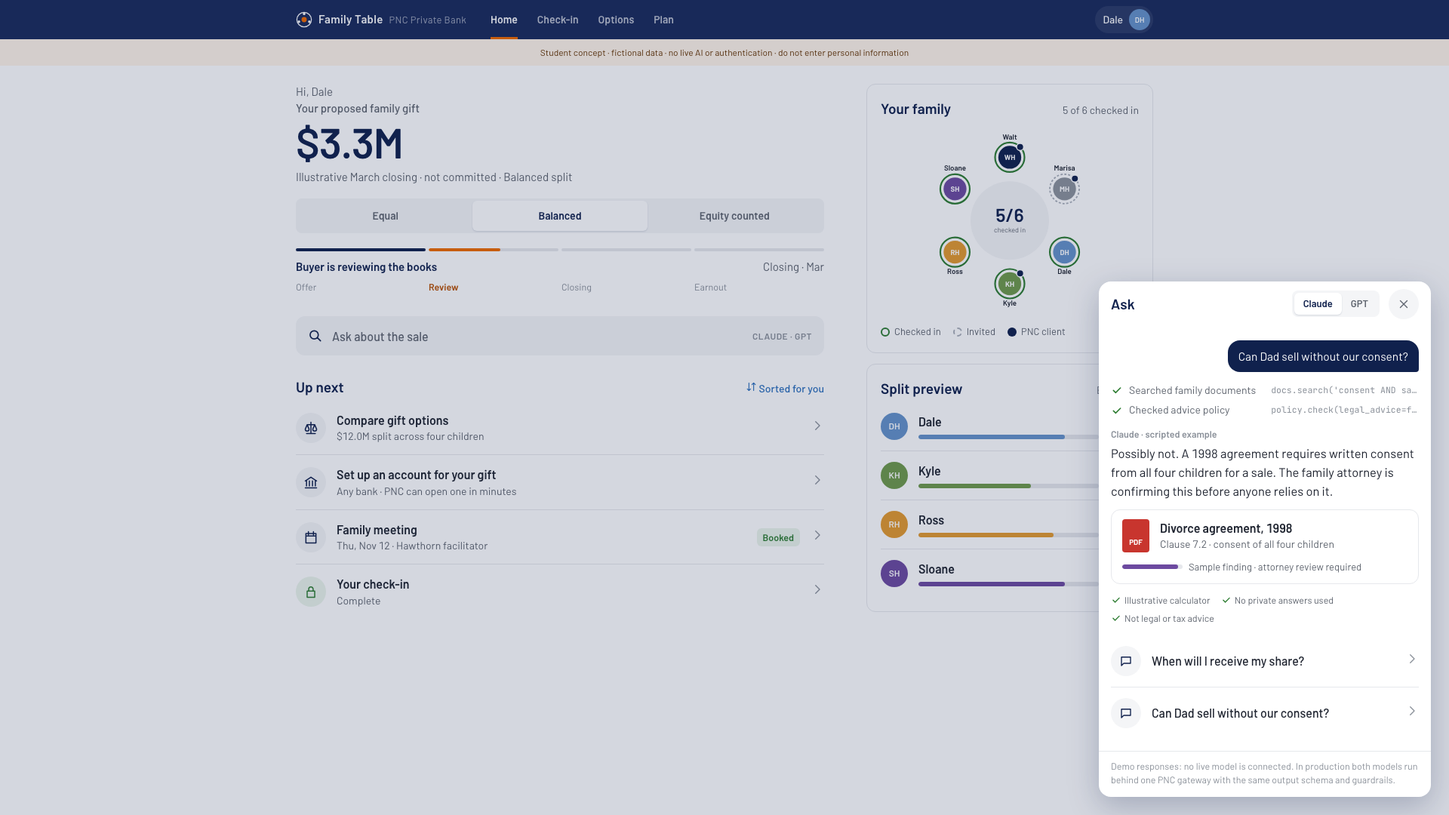
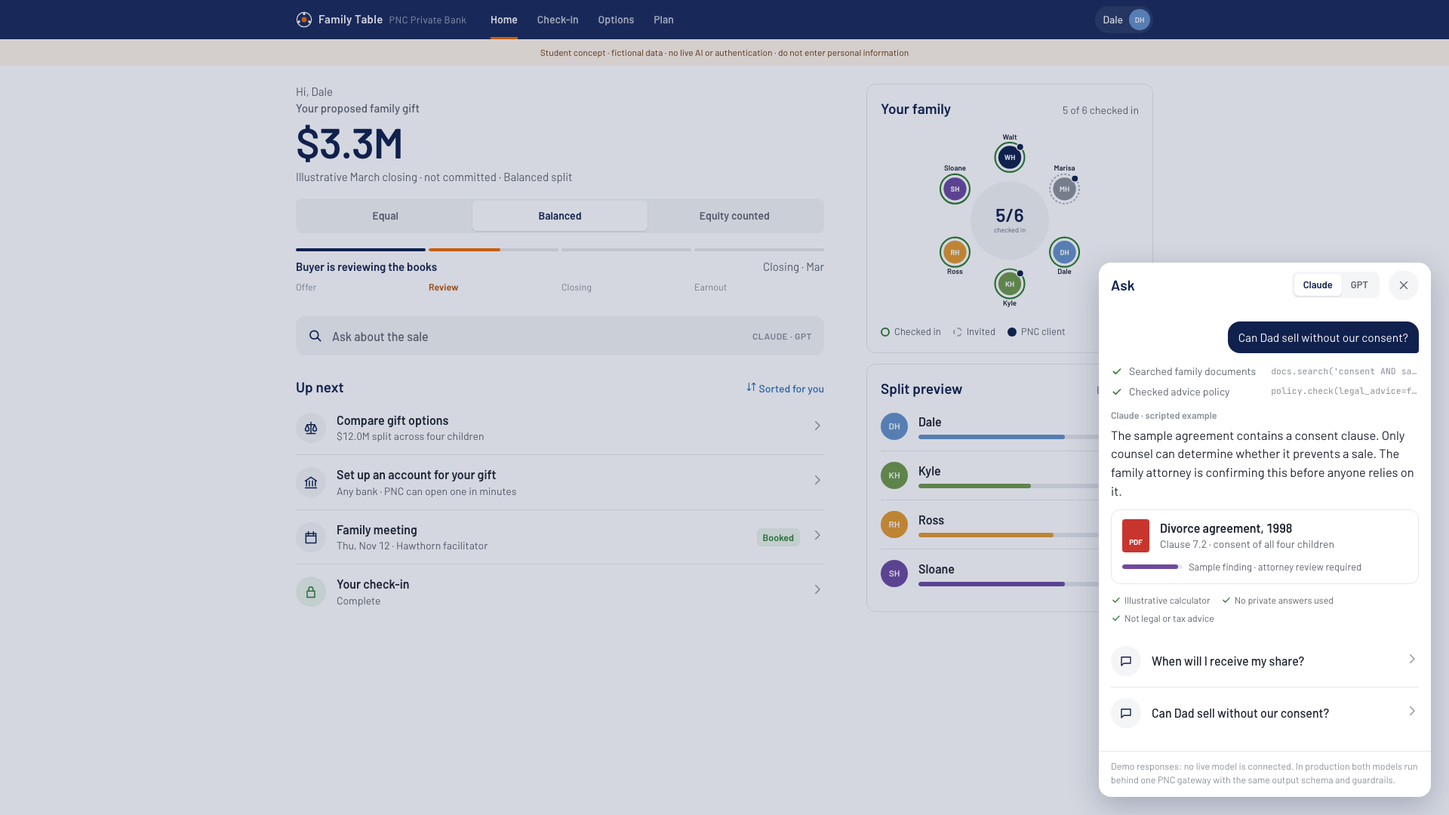
Clarify buyer authority and record verified revision handoff

Changed region(s): [[0.75, 0.3056, 1.0, 0.6111]]

diff --git a/slides/index.html b/slides/index.html
@@ -1,1 +1,1 @@
-<!doctype html><html lang="en"><meta charset="utf-8"><meta name="viewport" content="width=device-width,initial-scale=1"><title>Family Table · ten-slide review deck</title><link rel="stylesheet" href="deck.css"><body><nav class="toolbar"><a href="../">Overview</a><a href="../prototype/?reset#/me/sloane/checkin">Live demo</a><a href="family-table-review.pdf">Download PDF</a><span>Team review draft · AI-assisted revision</span></nav><section class="slide" id="cover"><div class="kicker">Family Table</div><h1>One sale. Every voice. A clear next step.</h1><div class="columns"><div><h2>A $48M offer</h2><p>Six family members have different ideas of what comes next.</p></div><div><h2>The product</h2><p>A family workspace and advisor workbench for a business sale.</p></div><div><h2>The team</h2><p>Alen Ilmi · Rizaldy Utomo · Nindy Aditya Dewi · Aditya Mulya Pratama</p></div></div><div class="source">CSL 2026 · Carnegie Mellon University · Student concept, not a PNC product.</div><span class="num">01 / 10</span></section><section class="slide" id="case"><div class="kicker">The problem and our evidence</div><h1>A sale requires a plan for the family’s life afterward.</h1><div class="columns"><div><h2>Secondary evidence</h2><p>PNC’s Begin at the end describes lifestyle, purpose and family planning after an exit.</p></div><div><h2>Our hypothesis</h2><p>Separate conversations and explicit sharing help members raise concerns before a joint decision.</p></div><div><h2>Evidence gap</h2><p>No primary interviews are documented. Fictional personas and Succession are design prompts, not customer evidence.</p></div></div><div class="source">Source: PNC, Begin at the end, pp. 1–3. Primary discovery remains incomplete.</div><span class="num">02 / 10</span></section><section class="slide" id="discovery"><div class="kicker">Discovery before claims</div><h1>Test who people trust with an answer.</h1><div class="columns"><div><h2>Two owners or heirs</h2><p>Ask about the last difficult financial conversation. Who could see the answer? Show sharing controls; ask them to explain the recipient.</p></div><div><h2>Two advisors</h2><p>Reconstruct their last sale handoff. Time meeting preparation. Ask about representation, conflicts and a manual alternative.</p></div><div><h2>Decision rule</h2><p>Record quote, consent to cite, friction and resulting change. If sharing is misunderstood, simplify it. If members refuse the bank, offer separate counsel.</p></div></div><div class="source">Proposed interviews, not completed research. Never fill this slide with invented quotes.</div><span class="num">03 / 10</span></section><section class="slide" id="family"><div class="kicker">The family experience</div><h1>Sloane decides what Alex receives.</h1><div class="demo-layout"><img src="../prototype/shots/me_sloane_checkin.png" alt="Current family prototype screen"><div class="columns"><div><h2>Write privately</h2><p>No answer or inferred theme appears in Alex’s view by default.</p></div><div><h2>Share deliberately</h2><p>Choose one answer for Alex. Preview exactly what he sees. A private conversation remains an alternative.</p></div><div><h2>Change your mind</h2><p>Withdraw future access. Editing requires sharing again. Prior reading and required audit retention cannot be undone.</p></div></div></div><div class="source">Interactive demo: prototype/#/me/sloane/checkin. Static fictional data; no secure storage.</div><span class="num">04 / 10</span></section><section class="slide" id="advisor"><div class="kicker">The advisor workbench</div><h1>Alex prepares from permission, not inference.</h1><div class="demo-layout"><img src="../prototype/shots/advisor_align.png" alt="Current advisor prototype screen"><div class="columns"><div><h2>Start with a referral</h2><p>Owner-authorized introduction. Confirm client scope, conflicts and separate representation before joint advice.</p></div><div><h2>Review shared concerns</h2><p>See only the answers members selected. Approve a preparation brief; changed text or permission invalidates approval.</p></div><div><h2>Route decisions</h2><p>Counsel confirms document findings. Family reviews scenarios. Account introductions require individual opt-in.</p></div></div></div><div class="source">Interactive demo: prototype/#/advisor/align. No anonymous small-family scores or leadership counts.</div><span class="num">05 / 10</span></section><section class="slide" id="economics"><div class="kicker">The Hale sale, reconciled</div><h1>A $48M offer produces $27M illustrative closing cash.</h1><div class="columns"><div><h2>Closing waterfall</h2><p>$48M − $8M contingent earnout − $3.5M debt − $1.5M fees − $8M estimated tax = $27M.</p></div><div><h2>Proposed uses</h2><p>$9M reserve + $12M gifts + $6M long-term allocation. Buyer equity of $2M is assumed separate from Walt’s offer.</p></div><div><h2>Next generation</h2><p>Dale, Ross and Sloane receive $9M–$10.0M combined, within the $27M. Actual retention and gift-tax feasibility are unproven.</p></div></div><div class="source">Source: prototype/data.js and fixed gift formula in app.js. All figures illustrative; not advice.</div><span class="num">06 / 10</span></section><section class="slide" id="architecture"><div class="kicker">Specific AI, bounded authority</div><h1>Language models prepare material for review.</h1><div class="columns"><div><h2>Extract and retrieve</h2><p>Authorized text → candidate themes and cited passages. Member confirms themes; counsel interprets documents.</p></div><div><h2>Draft a brief</h2><p>Shared answers + reviewed sources → sourced preparation draft. Advisor checks accuracy and permission before use.</p></div><div><h2>Keep rules deterministic</h2><p>Calculators reconcile money. Fixed rules order screens. Today’s assistant is scripted; no model or bank integration is live.</p></div></div><div class="source">Production gates: server authorization, permissioned evaluations, source grounding, restricted audit and retention policy.</div><span class="num">07 / 10</span></section><section class="slide" id="sauce"><div class="kicker">Why PNC could win</div><h1>Make a reliable family handoff part of the relationship.</h1><div class="columns"><div><h2>Access</h2><p>An existing commercial relationship may support a timely referral. It is neither exclusive nor automatic permission to reuse data.</p></div><div><h2>Execution</h2><p>Coordinate relationship managers, wealth advisors and family specialists with explicit permissions and named review owners.</p></div><div><h2>Defensibility to earn</h2><p>Competitors can copy the interface. Demonstrated trust, adoption and better outcomes would build an advantage over time.</p></div></div><div class="source">Positioning hypothesis. No claim that PNC uniquely sees sales or owns private family concerns.</div><span class="num">08 / 10</span></section><section class="slide" id="privacy"><div class="kicker">Trust and the business incentive</div><h1>Participation never requires becoming a PNC client.</h1><div class="columns"><div><h2>Know the client</h2><p>Define representation and conflicts. Offer independent counsel and separate conversations.</p></div><div><h2>Limit disclosure</h2><p>No private theme aggregation. No automatic legal findings. Revoke future access and invalidate derived briefs.</p></div><div><h2>Separate service from sales</h2><p>Members can choose any bank. Measure voluntary relationships; do not target heirs using private distress.</p></div></div><div class="source">Design requirements, not legal clearance. CFPB Regulation P §§1016.1 and 1016.10 inform questions for counsel.</div><span class="num">09 / 10</span></section><section class="slide" id="pilot"><div class="kicker">A bounded pilot and a clear decision</div><h1>Ask for a 90-day feasibility pilot with ten opt-in families.</h1><div class="columns"><div><h2>Trust and time</h2><p>Five advisors. Target ≥80% sharing comprehension and ≥25% lower median preparation time versus baseline. Any unauthorized disclosure stops the pilot.</p></div><div><h2>Cost assumption</h2><p>$150k cap: $90k implementation, $40k review/testing, $20k operations. At 0.50% annual gross fees, $30M incremental fee-bearing AUM covers this before costs.</p></div><div><h2>Business follow-up</h2><p>At 12 months compare voluntary introductions and incremental assets with matched families. No internal-transfer double counting. Ten families cannot prove causal retention lift.</p></div></div><div class="source">All pilot targets and costs are planning assumptions. Interviews, budget validation and counsel/security approval precede real client use.</div><span class="num">10 / 10</span></section></body></html>
+<!doctype html><html lang="en"><meta charset="utf-8"><meta name="viewport" content="width=device-width,initial-scale=1"><title>Family Table · ten-slide review deck</title><link rel="stylesheet" href="deck.css"><body><nav class="toolbar"><a href="../">Overview</a><a href="../prototype/?reset#/me/sloane/checkin">Live demo</a><a href="family-table-review.pdf">Download PDF</a><span>Team review draft · AI-assisted revision</span></nav><section class="slide" id="cover"><div class="kicker">Family Table</div><h1>One sale. Every voice. A clear next step.</h1><div class="columns"><div><h2>A $48M offer</h2><p>Six family members have different ideas of what comes next.</p></div><div><h2>The product</h2><p>A family workspace and advisor workbench for a business sale.</p></div><div><h2>The team</h2><p>Alen Ilmi · Rizaldy Utomo · Nindy Aditya Dewi · Aditya Mulya Pratama</p></div></div><div class="source">CSL 2026 · Carnegie Mellon University · Student concept, not a PNC product. AI-assisted review draft; team approval required.</div><span class="num">01 / 10</span></section><section class="slide" id="case"><div class="kicker">The problem and our evidence</div><h1>A sale requires a plan for the family’s life afterward.</h1><div class="columns"><div><h2>Secondary evidence</h2><p>PNC’s Begin at the end describes lifestyle, purpose and family planning after an exit.</p></div><div><h2>Our hypothesis</h2><p>Separate conversations and explicit sharing help members raise concerns before a joint decision.</p></div><div><h2>Evidence gap</h2><p>No primary interviews are documented. Fictional personas and Succession are design prompts, not customer evidence.</p></div></div><div class="source">Source: PNC, Begin at the end, pp. 1–3. Primary discovery remains incomplete.</div><span class="num">02 / 10</span></section><section class="slide" id="discovery"><div class="kicker">Discovery before claims</div><h1>Test who people trust with an answer.</h1><div class="columns"><div><h2>Two owners or heirs</h2><p>Ask about the last difficult financial conversation. Who could see the answer? Show sharing controls; ask them to explain the recipient.</p></div><div><h2>Two advisors</h2><p>Reconstruct their last sale handoff. Time meeting preparation. Ask about representation, conflicts and a manual alternative.</p></div><div><h2>Decision rule</h2><p>Record quote, consent to cite, friction and resulting change. If sharing is misunderstood, simplify it. If members refuse the bank, offer separate counsel.</p></div></div><div class="source">Proposed interviews, not completed research. Never fill this slide with invented quotes.</div><span class="num">03 / 10</span></section><section class="slide" id="family"><div class="kicker">The family experience</div><h1>Sloane decides what Alex receives.</h1><div class="demo-layout"><img src="../prototype/shots/me_sloane_checkin.png" alt="Current family prototype screen"><div class="columns"><div><h2>Write privately</h2><p>No answer or inferred theme appears in Alex’s view by default.</p></div><div><h2>Share deliberately</h2><p>Choose one answer for Alex. Preview exactly what he sees. A private conversation remains an alternative.</p></div><div><h2>Change your mind</h2><p>Withdraw future access. Editing requires sharing again. Prior reading and required audit retention cannot be undone.</p></div></div></div><div class="source">Interactive demo: prototype/#/me/sloane/checkin. Static fictional data; no secure storage.</div><span class="num">04 / 10</span></section><section class="slide" id="advisor"><div class="kicker">The advisor workbench</div><h1>Alex prepares from permission, not inference.</h1><div class="demo-layout"><img src="../prototype/shots/advisor_align.png" alt="Current advisor prototype screen"><div class="columns"><div><h2>Start with a referral</h2><p>Owner-authorized introduction. Confirm client scope, conflicts and separate representation before joint advice.</p></div><div><h2>Review shared concerns</h2><p>See only the answers members selected. Approve a preparation brief; changed text or permission invalidates approval.</p></div><div><h2>Route decisions</h2><p>Counsel confirms document findings. Family reviews scenarios. Account introductions require individual opt-in.</p></div></div></div><div class="source">Interactive demo: prototype/#/advisor/align. No anonymous small-family scores or leadership counts.</div><span class="num">05 / 10</span></section><section class="slide" id="economics"><div class="kicker">The Hale sale, reconciled</div><h1>A $48M offer produces $27M illustrative closing cash.</h1><div class="columns"><div><h2>Closing waterfall</h2><p>$48M − $8M contingent earnout − $3.5M debt − $1.5M fees − $8M estimated tax = $27M.</p></div><div><h2>Proposed uses</h2><p>$9M reserve + $12M gifts + $6M long-term allocation. Buyer equity of $2M is assumed separate from Walt’s offer.</p></div><div><h2>Next generation</h2><p>Dale, Ross and Sloane receive $9M–$10.0M combined, within the $27M. Actual retention and gift-tax feasibility are unproven.</p></div></div><div class="source">Source: prototype/data.js and fixed gift formula in app.js. All figures illustrative; not advice.</div><span class="num">06 / 10</span></section><section class="slide" id="architecture"><div class="kicker">Specific AI, bounded authority</div><h1>Language models prepare material for review.</h1><div class="columns"><div><h2>Extract and retrieve</h2><p>Authorized text → candidate themes and cited passages. Member confirms themes; counsel interprets documents.</p></div><div><h2>Draft a brief</h2><p>Shared answers + reviewed sources → sourced preparation draft. Advisor checks accuracy and permission before use.</p></div><div><h2>Keep rules deterministic</h2><p>Calculators reconcile money. Fixed rules order screens. Today’s assistant is scripted; no model or bank integration is live.</p></div></div><div class="source">Production gates: server authorization, permissioned evaluations, source grounding, restricted audit and retention policy.</div><span class="num">07 / 10</span></section><section class="slide" id="sauce"><div class="kicker">Why PNC could win</div><h1>Make a reliable family handoff part of the relationship.</h1><div class="columns"><div><h2>Access</h2><p>An existing commercial relationship may support a timely referral. It is neither exclusive nor automatic permission to reuse data.</p></div><div><h2>Execution</h2><p>Coordinate relationship managers, wealth advisors and family specialists with explicit permissions and named review owners.</p></div><div><h2>Defensibility to earn</h2><p>Competitors can copy the interface. Demonstrated trust, adoption and better outcomes would build an advantage over time.</p></div></div><div class="source">Positioning hypothesis. No claim that PNC uniquely sees sales or owns private family concerns.</div><span class="num">08 / 10</span></section><section class="slide" id="privacy"><div class="kicker">Trust and the business incentive</div><h1>Participation never requires becoming a PNC client.</h1><div class="columns"><div><h2>Know the client</h2><p>Define representation and conflicts. Offer independent counsel and separate conversations.</p></div><div><h2>Limit disclosure</h2><p>No private theme aggregation. No automatic legal findings. Revoke future access and invalidate derived briefs.</p></div><div><h2>Separate service from sales</h2><p>Members can choose any bank. Measure voluntary relationships; do not target heirs using private distress.</p></div></div><div class="source">Design requirements, not legal clearance. CFPB Regulation P §§1016.1 and 1016.10 inform questions for counsel.</div><span class="num">09 / 10</span></section><section class="slide" id="pilot"><div class="kicker">A bounded pilot and a clear decision</div><h1>Ask for a 90-day feasibility pilot with ten opt-in families.</h1><div class="columns"><div><h2>Trust and time</h2><p>Five advisors. Target ≥80% sharing comprehension and ≥25% lower median preparation time versus baseline. Any unauthorized disclosure stops the pilot.</p></div><div><h2>Cost assumption</h2><p>$150k cap: $90k implementation, $40k review/testing, $20k operations. At 0.50% annual gross fees, $30M incremental fee-bearing AUM covers this before costs.</p></div><div><h2>Business follow-up</h2><p>At 12 months compare voluntary introductions and incremental assets with matched families. No internal-transfer double counting. Ten families cannot prove causal retention lift.</p></div></div><div class="source">All pilot targets and costs are planning assumptions. Interviews, budget validation and counsel/security approval precede real client use.</div><span class="num">10 / 10</span></section></body></html>

diff --git a/prototype/data.js b/prototype/data.js
@@ -136,18 +136,18 @@ window.SEED = {
     ],
     ross: [
       { q: "Does the offer include a role for me?", card: "role", tools: [["Read the letter of intent", "deal.terms(loi_v3, section='management')"]],
-        a: { claude: "Not yet. The letter keeps the sales team for 12 months but doesn't name your role. Raise it with Alex before the letter is signed.", gpt: "No role is named for you yet; the sales team is retained for 12 months. Raise it with Alex before signing." } },
+        a: { claude: "Not yet. The letter keeps the sales team for 12 months but doesn't name your role. Raise it with Alex before closing.", gpt: "No role is named for you yet; the sales team is retained for 12 months. Raise it with Alex before closing." } },
     ],
     sloane: [
       { q: "Who decides who leads?", card: "meeting", tools: [["Checked the family calendar", "calendar.next('family_meeting')"], ["Checked brief status", "brief.status()"]],
-        a: { claude: "The family decides together, at the November 12 meeting with a Hawthorn facilitator. Only concerns explicitly shared with Alex enter his preparation.", gpt: "It's on the agenda for the facilitated family meeting on Nov 12. Your answers remain private." } },
+        a: { claude: "Family governance is on the November 12 agenda. NorthPeak controls operating appointments under the final deal; the family cannot promise a buyer role. Only shared concerns enter Alex’s preparation.", gpt: "Discuss family governance on Nov 12. Operating roles depend on NorthPeak and the final agreements. Your unshared answers stay out of Alex’s view." } },
       { q: "Can Dad sell without our consent?", card: "clause", tools: [["Searched family documents", "docs.search('consent AND sale')"], ["Checked advice policy", "policy.check(legal_advice=false)"]],
         a: { claude: "The sample agreement contains a consent clause. Only counsel can determine whether it prevents a sale. The family attorney is confirming.", gpt: "A 1998 agreement may require consent from all four children. The family attorney is checking." } },
     ],
     alex: [
       { q: "Prepare me for the family meeting", card: "prep", tools: [["Checked sharing permissions", "consent.check()"], ["Listed review tasks", "tasks.list()"]],
         a: { claude: "Review only explicitly shared concerns. Ask permission before raising them with the family. Counsel must confirm document findings.", gpt: "Prepare from shared concerns only. Confirm onward-sharing permission and counsel review." } },
-      { q: "Which heirs are at risk?", card: "heirs", tools: [["Queried the household graph", "graph.heirs(pnc=false)"]],
+      { q: "Who could opt in to an introduction?", card: "heirs", tools: [["Queried the household graph", "graph.heirs(pnc=false)"]],
         a: { claude: "Dale, Ross and Sloane bank elsewhere. Together they could receive $9.0M to $10.0M at closing. Offer an introduction only after each person opts in.", gpt: "Three heirs have no PNC relationship and could receive $9.0M–$10.0M combined. Each person must opt in before an introduction." } },
     ],
   },

diff --git a/prototype/app.js b/prototype/app.js
@@ -252,7 +252,7 @@
   }
 
   // ---------- family: plan ----------
-  const STEPS = { walt: "Sign a dated successor decision to replace the desk note", marisa: "Complete your check-in, then an estate review with Alex", dale: "Choose where your gift should be paid", kyle: "Review your COO contract with business banking", ross: "Ask for a named role before the offer is signed", sloane: "Choose your next step for the Nov 12 meeting" };
+  const STEPS = { walt: "Review leadership and contingency decisions with counsel", marisa: "Complete your check-in, then an estate review with Alex", dale: "Choose where your gift should be paid", kyle: "Review your proposed COO contract with your counsel", ross: "Ask for a named role before closing", sloane: "Choose your next step for the Nov 12 meeting" };
   function famPlan(pid) {
     const agreed = state.agreed[pid];
     return `<div class="page"><div class="cols"><div class="col-main">
@@ -326,7 +326,7 @@
       case "role": return v === "ross" ? flat(`<span class="ic o">${ic("brief")}</span><div class="tx"><b>Sales team retained 12 months</b><span>No role named for Ross</span></div>`) : flat(`<span class="ic">${ic("brief")}</span><div class="tx"><b>COO · 2-year contract</b><span>$1.5M equity in NorthPeak</span></div>`);
       case "meeting": return flat(`<span class="ic">${ic("cal")}</span><div class="tx"><b>Family meeting · Thu, Nov 12</b><span>Consent clause · Leadership · Fairness</span></div>`);
       case "contingency": return flat(`<span class="ic g">${ic("shield")}</span><div class="tx"><b>Contingency plan · signed Oct 20</b><span>Kyle leads 90 days; family council decides within 30</span></div>`);
-      case "prep": return `<div class="mini"><div class="rows"><div class="row"><span class="ic">1</span><div class="tx"><b>Consent clause</b></div></div><div class="row"><span class="ic">2</span><div class="tx"><b>Leadership overlap</b></div></div><div class="row"><span class="ic">3</span><div class="tx"><b>Fairness</b></div></div></div></div>`;
+      case "prep": return `<div class="mini"><div class="rows"><div class="row"><span class="ic">1</span><div class="tx"><b>Consent clause</b></div></div><div class="row"><span class="ic">2</span><div class="tx"><b>Sharing permissions</b></div></div><div class="row"><span class="ic">3</span><div class="tx"><b>Permission for the family meeting</b></div></div></div></div>`;
       case "heirs": return `<div class="mini"><div class="rows">${heirs().map(h => `<div class="row">${av(h, 32)}<div class="tx"><b>${h.short}</b><span>${h.pnc}</span></div><div class="rt">${money(gifts(0)[h.id])}+</div></div>`).join("")}</div></div>`;
     }
     return "";

diff --git a/slides/claude_deck/slides/cover.html b/slides/claude_deck/slides/cover.html
@@ -1,1 +1,1 @@
-<section class="slide" id="cover"><div class="kicker">Family Table</div><h1>One sale. Every voice. A clear next step.</h1><div class="columns"><div><h2>A $48M offer</h2><p>Six family members have different ideas of what comes next.</p></div><div><h2>The product</h2><p>A family workspace and advisor workbench for a business sale.</p></div><div><h2>The team</h2><p>Alen Ilmi · Rizaldy Utomo · Nindy Aditya Dewi · Aditya Mulya Pratama</p></div></div><div class="source">CSL 2026 · Carnegie Mellon University · Student concept, not a PNC product.</div><span class="num">01 / 10</span></section>
+<section class="slide" id="cover"><div class="kicker">Family Table</div><h1>One sale. Every voice. A clear next step.</h1><div class="columns"><div><h2>A $48M offer</h2><p>Six family members have different ideas of what comes next.</p></div><div><h2>The product</h2><p>A family workspace and advisor workbench for a business sale.</p></div><div><h2>The team</h2><p>Alen Ilmi · Rizaldy Utomo · Nindy Aditya Dewi · Aditya Mulya Pratama</p></div></div><div class="source">CSL 2026 · Carnegie Mellon University · Student concept, not a PNC product. AI-assisted review draft; team approval required.</div><span class="num">01 / 10</span></section>

diff --git a/current-context-what-next.md b/current-context-what-next.md
@@ -21,13 +21,13 @@ CSL 2026 family-business sale concept. Due October 28, 11:59 PM ET: 8–10-slide
 - Native browser verified answer 2 sharing and Alex receiving exactly that answer; mobile check-in inspected at 390×844.
 - PDF has exactly ten pages with extractable text; every slide screenshot reviewed as a contact sheet and export found no container overflow.
 - Initial parallel local test run hit socket failures on the reused Python server. Single-worker run passed; configuration uses one worker for stability.
-- Remote GitHub run and live verification: pending push at this checkpoint; final receipt will replace this line.
+- GitHub validate + deploy succeeded on revision f8515d3: https://github.com/rzrizaldy/pnc_csl_2026/actions/runs/40433987174. Initial run failed on ubuntu-latest (26.04); pinning ubuntu-24.04 resolved browser support. Final copy-only follow-up also runs the full workflow. Live acceptance is checked in the closing response.
 
 ## Constraints and remaining gaps
 Fictional, public, static demonstration; no authentication, secure storage, PNC integration, real models or legal clearance. No primary interview evidence has been fabricated. Budget/fee assumptions and pilot thresholds are proposals. Preserve the team's core concept and disclose AI-assisted revision. Do not edit Canva without specific authorization. Do not use old screenshots, v2 script or older artifact as the latest deck.
 
 ## Exact next actions
-1. Verify GitHub Actions deploy succeeds and live Pages matches the revised overview; record run URL here.
+1. Use the live overview and 60-second walkthrough in README. Latest GitHub validate/deploy must be green before taking submission screenshots.
 2. Team conducts two owner/heir and two advisor interviews, fills discovery worksheet with actual permissioned evidence, and revises slide 3 accordingly.
 3. Team validates assumed pilot costs, engagement/conflict approach and eligible referral pipeline.
 4. Narrative owner approves v3; Nindy records; Rz assembles/captions and verifies ≤120s actual video.

diff --git a/docs/DEVILS_ADVOCATE_REVIEW.md b/docs/DEVILS_ADVOCATE_REVIEW.md
@@ -93,7 +93,8 @@ All scores are **Suspected**, not judge predictions. Weighted illustrative basel
 7. **Verified:** November 12, 2026 is Thursday, not Tuesday (app.js repeated “Tue, Nov 12”). Corrected.
 8. **Verified:** “3 of 5” was hardcoded from fictional private answers, not validated research or a live extraction. Removed from advisor UI, deck and narration.
 9. **Verified:** Seven local slides were not a complete 8–10-slide deck. New ten-slide review draft supplied; live Canva, Claude artifact and the older PPTX remain unchanged and should not be mistaken for the revised version.
-10. **Verified:** Agreeing “in principle” is not a legal signature, and the current app has no signing service. Revised script does not claim signing. Seeded contingency text is a fictional scenario, not a real executed document.
+10. **Verified:** The earlier post-sale leadership wording blurred family governance and buyer-controlled operating appointments. The revised assistant and next steps distinguish them and route proposed contracts to counsel.
+11. **Verified:** Agreeing “in principle” is not a legal signature, and the current app has no signing service. Revised script does not claim signing. Seeded contingency text is a fictional scenario, not a real executed document.
 
 ## Next 24 hours: maximum ten actions
 
